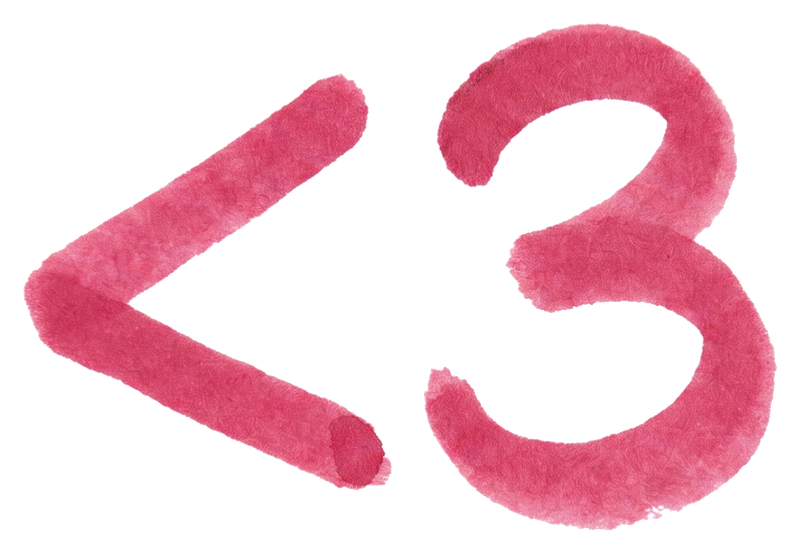
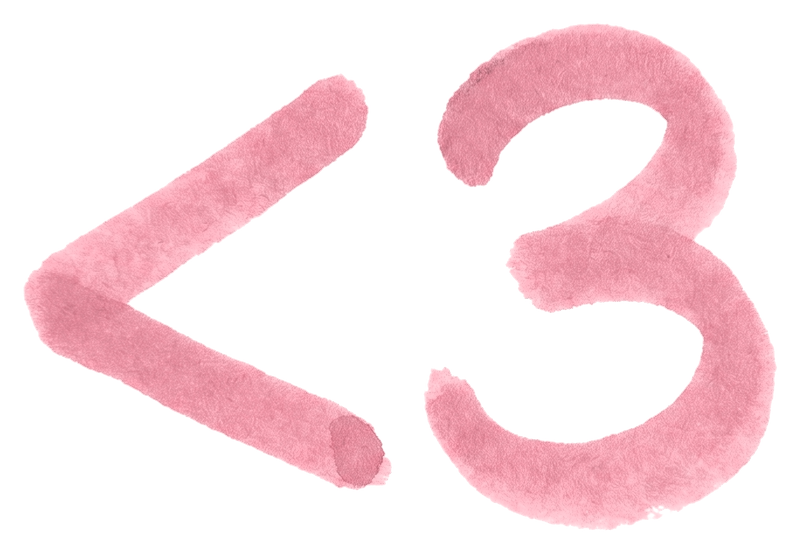
feat(love-receipt): soften <3 to warm rose #F1A2B1 + teal to soft aqua #63B1AE
Overwrite the two whitelisted doodle originals with the blessed HSV-recoloured
pixels (texture/alpha preserved). Remove the temporary -soft preview PNGs and
the softcompare preview view; no bindings, sizes, or other doodles touched.

diff --git a/src/app/g/preview/page.tsx b/src/app/g/preview/page.tsx
@@ -957,141 +957,6 @@ function SectionDemo({ title, ids }: { title: string; ids: string[] }) {
   );
 }
 
-// ── SOFT-COMPARE — old vs recoloured <3 / teal on receipt paper ──────────────
-// Preview-only: judge the softened doodle-math-heart + doodle-underline-teal
-// against the real near-white paper, beside neighbour doodles. Renders the
-// *-soft PNGs directly (NOT via the registry), so nothing is bound or
-// overwritten — the live assets are untouched. view=softcompare
-function SoftCompare() {
-  const D = '/stickers/doodles';
-  const PAPER = '#fbfbf9';
-  const INK = '#141b2b';
-  const cap: React.CSSProperties = { fontSize: 10.5, color: '#9a8f93' };
-  /* eslint-disable @next/next/no-img-element */
-  const heart = (soft: boolean) => (
-    <img
-      alt=""
-      src={`${D}/doodle-math-heart${soft ? '-soft' : ''}.png`}
-      style={{ height: 22, width: 'auto', verticalAlign: 'middle' }}
-    />
-  );
-  const feelings = (soft: boolean) => (
-    <span style={{ position: 'relative', display: 'inline-block' }}>
-      feelings
-      <img
-        alt=""
-        src={`${D}/doodle-underline-teal${soft ? '-soft' : ''}.png`}
-        style={{
-          position: 'absolute',
-          left: '-8%',
-          width: '116%',
-          bottom: -5,
-          height: 11,
-          objectFit: 'fill',
-        }}
-      />
-    </span>
-  );
-  const chip = (file: string, h = 22) => (
-    <img
-      alt=""
-      src={`${D}/${file}`}
-      style={{ height: h, width: 'auto', verticalAlign: 'middle' }}
-    />
-  );
-  /* eslint-enable @next/next/no-img-element */
-  const line: React.CSSProperties = {
-    display: 'flex',
-    alignItems: 'center',
-    gap: 6,
-    fontSize: 14,
-    lineHeight: 2,
-  };
-  const paper: React.CSSProperties = {
-    background: PAPER,
-    color: INK,
-    width: 360,
-    maxWidth: '92vw',
-    padding: '20px 18px',
-    boxShadow: '0 2px 12px rgba(0,0,0,0.14)',
-    fontFamily: 'ui-monospace, monospace',
-  };
-  return (
-    <div
-      style={{
-        minHeight: '100vh',
-        background: '#e7e2d8',
-        padding: '24px 14px 80px',
-        fontFamily: 'ui-monospace, monospace',
-        display: 'flex',
-        flexDirection: 'column',
-        alignItems: 'center',
-      }}
-    >
-      <h1 style={{ fontSize: 16, margin: '0 0 4px', color: '#1a1a1a' }}>
-        Love Receipt — softened &lt;3 + teal (old vs new)
-      </h1>
-      <p
-        style={{
-          fontSize: 12,
-          color: '#555',
-          margin: '0 0 22px',
-          maxWidth: 460,
-          textAlign: 'center',
-          lineHeight: 1.5,
-        }}
-      >
-        Same brush texture, only the colour moved: &lt;3 crimson →{' '}
-        <code>#F1A2B1</code> warm rose, teal → <code>#63B1AE</code> soft aqua.
-        Shown on the real paper (#fbfbf9). Originals are untouched — nothing is
-        committed to the live assets yet.
-      </p>
-      <div style={paper}>
-        <div style={cap}>&lt;3 end-mark — CURRENT (crimson)</div>
-        <div style={line}>
-          <span>you finish my sentences</span>
-          {heart(false)}
-        </div>
-        <div style={{ ...cap, marginTop: 10 }}>&lt;3 end-mark — SOFTENED</div>
-        <div style={line}>
-          <span>you finish my sentences</span>
-          {heart(true)}
-        </div>
-
-        <div
-          style={{ borderTop: '1px dashed #d9d4c8', margin: '18px 0 10px' }}
-        />
-
-        <div style={cap}>teal underline — CURRENT</div>
-        <div style={line}>
-          <span>i fear i have {feelings(false)}</span>
-        </div>
-        <div style={{ ...cap, marginTop: 10 }}>teal underline — SOFTENED</div>
-        <div style={line}>
-          <span>i fear i have {feelings(true)}</span>
-        </div>
-
-        <div
-          style={{ borderTop: '1px dashed #d9d4c8', margin: '18px 0 10px' }}
-        />
-
-        <div style={cap}>softened marks beside the neighbour doodles</div>
-        <div style={{ ...line, gap: 14, flexWrap: 'wrap' }}>
-          {heart(true)}
-          {chip('doodle-underline-teal-soft.png', 12)}
-          {chip('doodle-oval-lavender.png')}
-          {chip('doodle-rays-mustard.png')}
-          {chip('doodle-exclaim-question.png')}
-          {chip('doodle-wavy-underline.png', 12)}
-        </div>
-        <div style={{ ...cap, marginTop: 4 }}>
-          soft&lt;3 · softteal · oval · rays · !? · wavy
-        </div>
-      </div>
-    </div>
-  );
-}
-
 export default function GiftPreviewPage({
   searchParams,
 }: {
@@ -1190,9 +1055,6 @@ export default function GiftPreviewPage({
     return (
       <SectionDemo title="almost-moment section (7 lines)" ids={ALMOST_IDS} />
     );
-  }
-  if (slug === 'love-receipt' && searchParams.view === 'softcompare') {
-    return <SoftCompare />;
   }
   const makeMock = MOCKS[slug];
   const definition = getGiftDefinition(slug);
